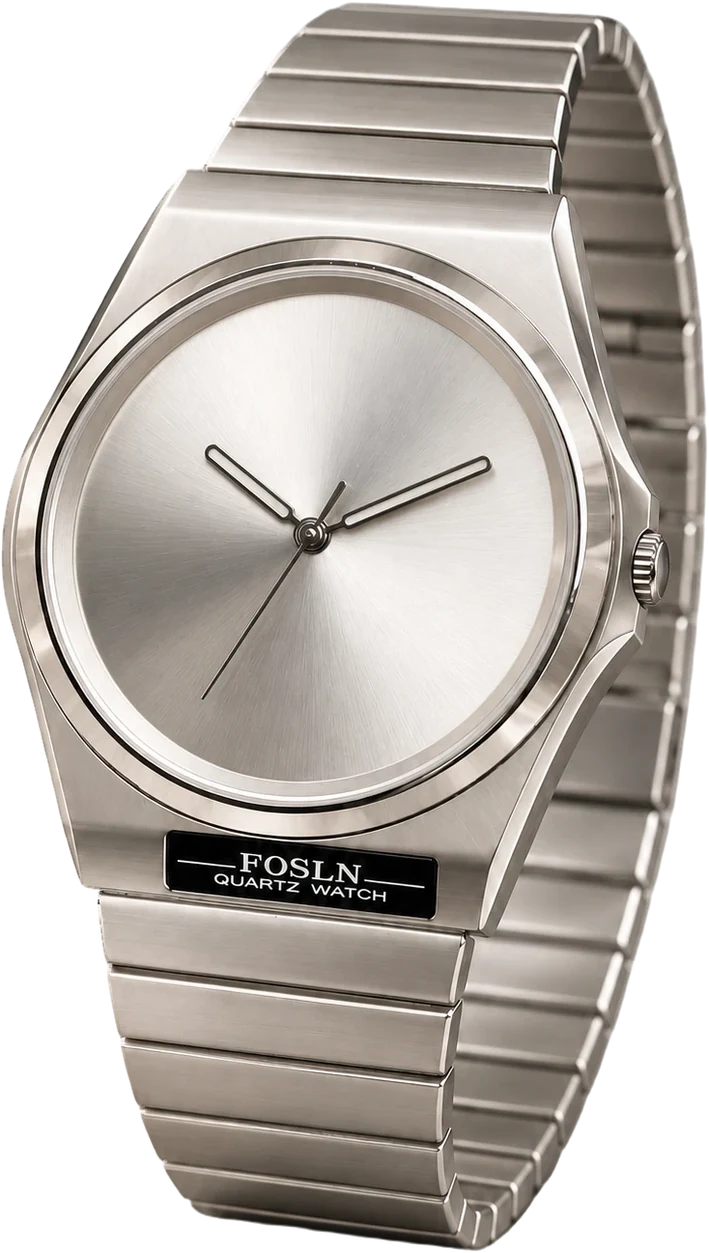
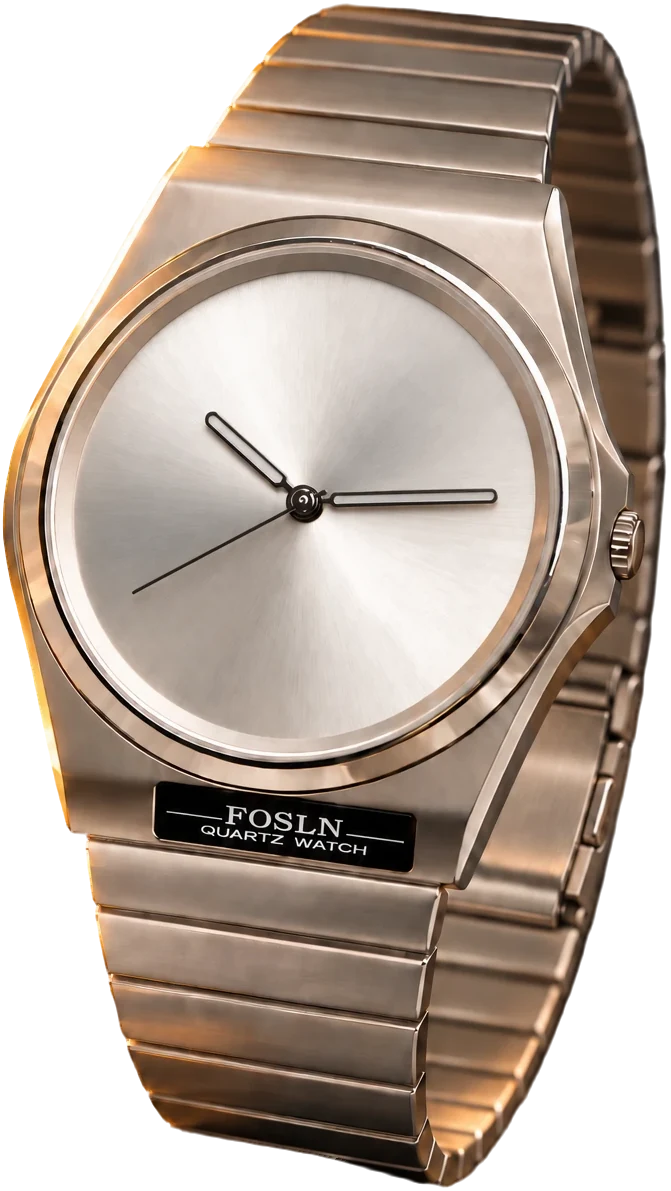
Product card (watch): new golden-hour product photos
Swap both colourway images for cut-outs of the new product photos, the
chrome-dial and black-dial watch shot on dark rock in warm golden light
from the same angle. Both share a 671 x 1191 canvas with identical
framing. The photos are already warm, so the warming filter on Chrome is
off (--ui-wcard-tone: none; documented as an option for cooler shots).

Claude-Session: https://claude.ai/code/session_01USNSbaj4fcY1X4jUF4TLUx

diff --git a/components/product-card-watch/index.html b/components/product-card-watch/index.html
@@ -120,8 +120,8 @@
         <figure class="ui-wcard__media">
           <span class="ui-wcard__shadow" aria-hidden="true"></span>
           <span class="ui-wcard__float">
-            <img class="ui-wcard__img is-active" data-colorway="chrome" src="images/acier-chrome.webp" width="709" height="1253" alt="FOSLN Acier watch with a chrome sunray dial" decoding="async">
-            <img class="ui-wcard__img" data-colorway="onyx" src="images/acier-onyx.webp" width="709" height="1253" alt="FOSLN Acier watch with a black dial" decoding="async" aria-hidden="true">
+            <img class="ui-wcard__img is-active" data-colorway="chrome" src="images/acier-chrome.webp" width="671" height="1191" alt="FOSLN Acier watch with a chrome sunray dial" decoding="async">
+            <img class="ui-wcard__img" data-colorway="onyx" src="images/acier-onyx.webp" width="671" height="1191" alt="FOSLN Acier watch with a black dial" decoding="async" aria-hidden="true">
           </span>
         </figure>
 

diff --git a/components/product-card-watch/style.css b/components/product-card-watch/style.css
@@ -24,7 +24,7 @@
   --ui-wcard-cta-fg: #1A140B;
   --ui-wcard-ring: #CFAE6C;
   --ui-wcard-seam: rgba(214, 178, 108, 0.45);
-  --ui-wcard-tone: sepia(0.16) saturate(1.15);   /* warms the steel to match the light */
+  --ui-wcard-tone: none;           /* optional filter on the watch photo, e.g. sepia(0.16) to warm a cool shot */
   --ui-wcard-radius: 28;           /* design units */
   --ui-wcard-inset-top: 0px;       /* room for a status bar, if the card sits under one */
 
@@ -233,7 +233,7 @@
   top: calc(var(--ui-wcard-inset-top) + 150 * var(--u));
   left: calc(78 * var(--u));
   width: calc(237 * var(--u));
-  aspect-ratio: 709 / 1253;
+  aspect-ratio: 671 / 1191;
   margin: 0;
   z-index: 2;
   pointer-events: none;

diff --git a/components/product-card-watch/README.md b/components/product-card-watch/README.md
@@ -12,10 +12,10 @@ The watch edition of the [product card](../product-card/), for the FOSLN ACIER q
   - a fine stone grain over the stage and footer
   - a warm glow from the upper left
   - a thin gold line where the stage meets the footer
-  - the steel warmed slightly, as it would be in that light
+  - the watch photos themselves shot on dark rock in the same golden light
 - **Colours:** two colourways, named after the dial:
-  - **Chrome, golden hour:** stone black with an amber glow, a champagne wordmark, gold spec line and a gold button. The chrome dial is warmed slightly.
-  - **Onyx, after dark:** deeper and cooler, the glow down to an ember, an ivory wordmark and a silver button. It uses the black-dial photo, with no warming.
+  - **Chrome, golden hour:** stone black with an amber glow, a champagne wordmark, gold spec line and a gold button. It uses the chrome-dial photo.
+  - **Onyx, after dark:** deeper and cooler, the glow down to an ember, an ivory wordmark and a silver button. It uses the black-dial photo.
 
   Picking one crossfades the watch photo and blends every colour across.
 - **Button:** one centred "Add to cart" label with a small cart icon, and no side note. After an add it reads "✓ Added". If the add fails, the error message takes the label's place for a few seconds. When the dial is sold out it reads "Sold out" and dims. A short note on the right (such as "Free returns") is still possible: add a `.ui-wcard__cta-note` span, and the label moves left to make room.
@@ -45,7 +45,7 @@ Plain HTML, CSS and vanilla JS, no dependencies. Classes are prefixed `ui-wcard`
 | `index.html` | Demo page: the card inside a phone frame with a status bar |
 | `style.css` | Component styles and the Chrome and Onyx themes |
 | `script.js` | Swatches, add to cart, entrance and pointer parallax |
-| `images/acier-*.webp` | Transparent watch cut-outs, chrome and black dial, on the same 709 × 1253 canvas |
+| `images/acier-*.webp` | Transparent watch cut-outs, chrome and black dial, on the same 671 × 1191 canvas |
 | `shopify/ui-wcard.liquid` | Shopify section: the card for a real product, with one block per colourway |
 | `shopify/ui-wcard-shopify.js` | Shopify connection: variants, real add to cart, header cart count |
 
@@ -128,7 +128,7 @@ Colours live in custom properties on `.ui-wcard`. Each colourway overrides the s
   --ui-wcard-cta-bg-2: #A9A399;  /* button gradient, dark end */
   --ui-wcard-ring: #D9D3C7;      /* selected swatch ring */
   --ui-wcard-seam: rgba(220, 212, 198, 0.3); /* line between stage and footer */
-  --ui-wcard-tone: none;         /* filter on the watch photo; Chrome warms it */
+  --ui-wcard-tone: none;         /* optional filter on the watch photo, e.g. sepia(0.16) */
 }
 ```
 
@@ -204,6 +204,6 @@ The `shopify/` folder turns the card into a theme section for a real product.
 
 ## Product images
 
-Both cut-outs are transparent WebP files cut from a matched pair of product photos, the chrome-dial and black-dial watch shot from the same angle. They share one canvas (709 × 1253) with the watch in exactly the same place, so switching colourways only changes the dial.
+Both cut-outs are transparent WebP files cut from a matched pair of product photos: the chrome-dial and black-dial watch, shot on dark rock in warm golden light from the same angle. They share one canvas (671 × 1191) with the watch in exactly the same place, so switching colourways only changes the dial. The photos are already warm, so `--ui-wcard-tone` is `none`. Set it to something like `sepia(0.16) saturate(1.15)` to warm a cooler studio shot.
 
 To use another product, export a transparent PNG/WebP per colourway. If the aspect is different, update `aspect-ratio`, `width` and `top` on `.ui-wcard__media`. If the wordmark has a different number of letters, adjust `font-size` on `.ui-wcard__title`; it's 132 units for five letters, and the original card uses 140 for four.
